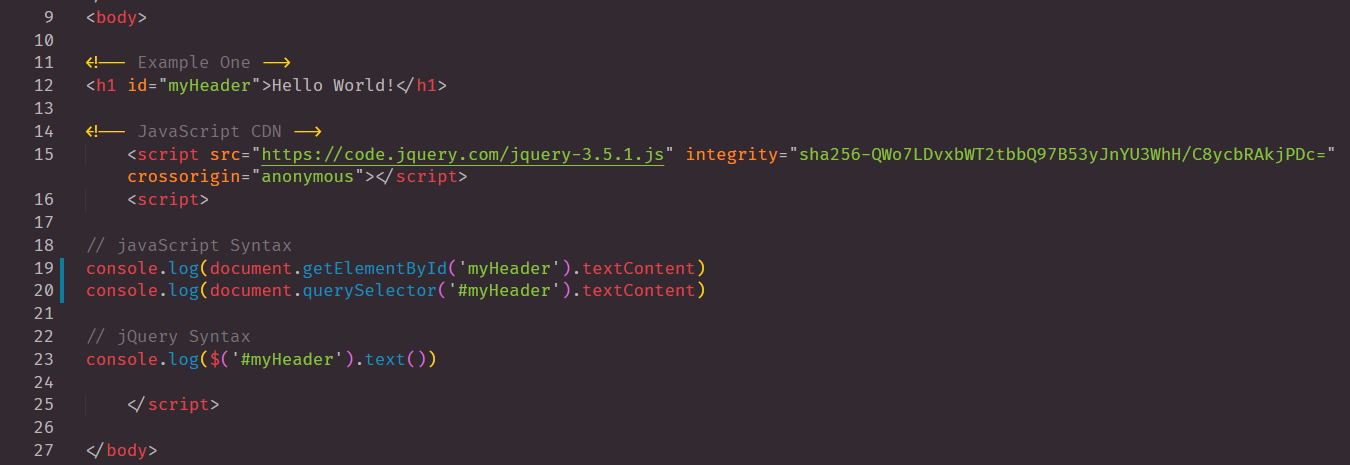
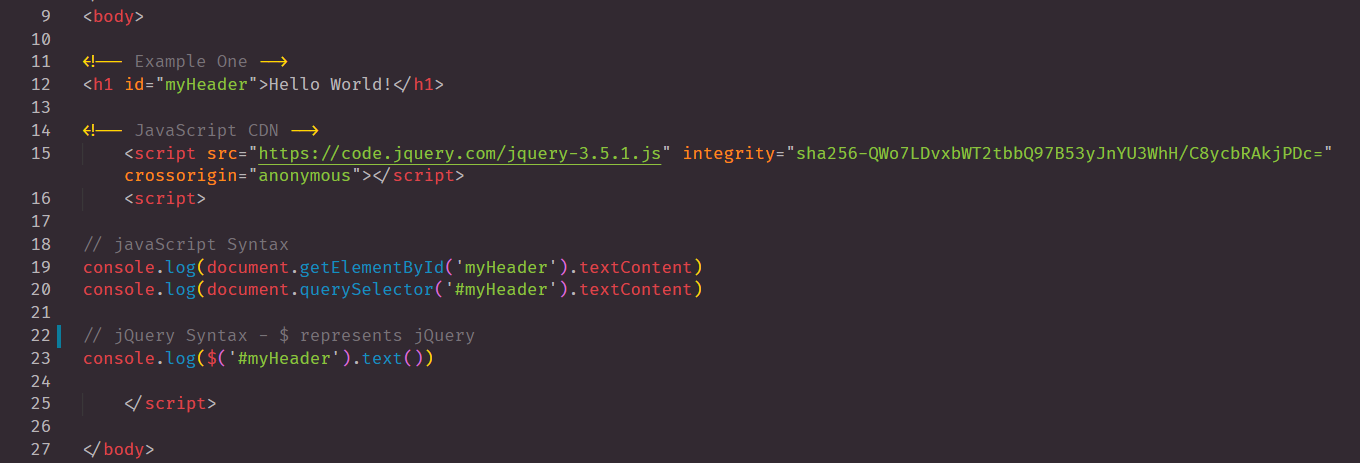
rendered JS vs JQ with text content and inner HTML

diff --git a/index.html b/index.html
@@ -18,9 +18,26 @@
 // javaScript Syntax
 console.log(document.getElementById('myHeader').textContent)
 console.log(document.querySelector('#myHeader').textContent)
+console.log(document.querySelector('#myHeader').innerHTML)
 
-// jQuery Syntax
+// jQuery Syntax - $ represents jQuery
 console.log($('#myHeader').text())
+// jQuery Syntax Inner HTML
+console.log($('#myHeader').html)
+// jQuery inner html
+$('#myHeader').html(`
+
+<button>Click Me</button>
+
+    `)
+
+
+// Passing/Changing or removing text content
+// JS Syntax
+document.querySelector('#myHeader').textContent = 'Goodbye World!'
+// JQ Syntax
+$('#myHeader').text('Goodbye World!')
+
 
     </script>
 
